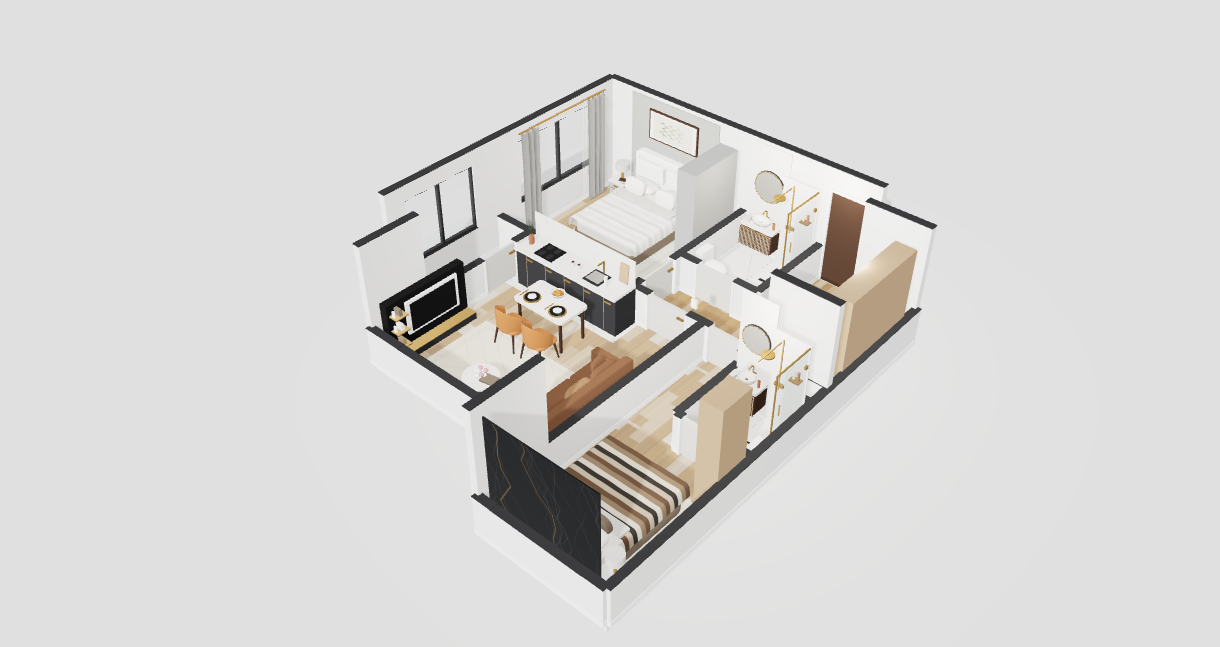
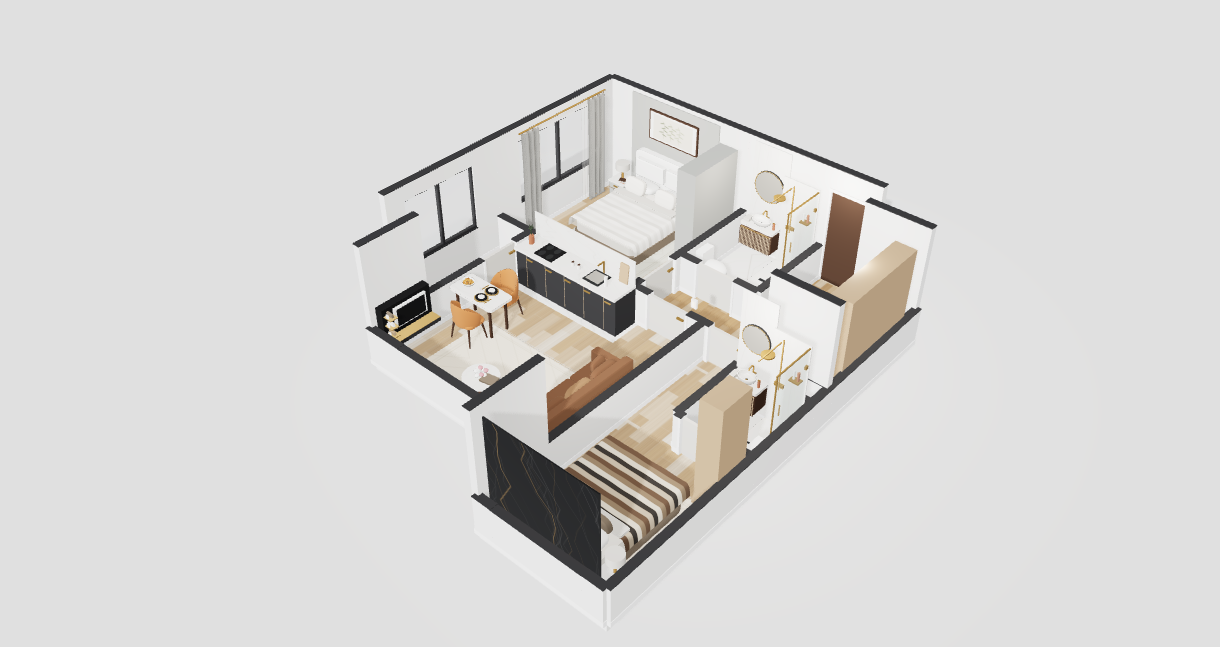
Place kitchen tables against walls with opposing chairs

Changed region(s): [[0.3115, 0.4019, 0.4984, 0.5564]]

diff --git a/src/layouts/tokyoLayouts.js b/src/layouts/tokyoLayouts.js
@@ -4,7 +4,7 @@ const kitchen=(r,x,z,w,rotation=0)=>f('kitchen-cabinets','kitchen',r,[x,z],[w,.9
 const sofa=(x,z,w,rotation=0,color='brown')=>f('sofa','sofa','living',[x,z],[w,.9,.95],rotation,{color});
 const tv=(x,z,w,rotation=0)=>f('tv-console','tv','living',[x,z],[w,2.1*w/3.1,.38],rotation);
 const coffee=(x,z)=>f('coffee-table','coffee','living',[x,z],[.85,.45,1.2]);
-const table=(r,x,z,rotation=0)=>f('dining-compact','diningCompact',r,[x,z],[1.55,.9,1.6],rotation);
+const table=(r,x,z,rotation=0)=>f('dining-compact','diningCompact',r,[x,z],[1.78,.98,1.2],rotation);
 const wardrobe=(id,r,x,z,w,rotation=0,color='light')=>f(id,'wardrobe',r,[x,z],[w,2.4,.5],rotation,{color});
 const vanity=(id,r,x,z,w=.8,rotation=0)=>f(id,'vanity',r,[x,z],[w,.88,.4],rotation);
 const shower=(r,x,z,w=.9,d=.9,rotation=0)=>f('shower-'+r,'shower',r,[x,z],[w,2.1,d],rotation);
@@ -22,8 +22,8 @@ export const euro52=finishLayout({
   room('storage','Storage','3.61',rect(5.65,4.5,2.75,2),[6.7,5.3],P),
   room('loggia1','Loggia','3.18',rect(0,0,1.25,3.15),[.6,1.8],P/2),
  ],
- openings:[['entrance',8.4,3.65,1.05,['hall']],['door',5.04,3.15,.9,['hall','primary'],'Bedroom door',-1,true],['door',4.5,3.82,.9,['hall','living'],'Living room door',-1],['door',6.95,2.05,.9,['hall','bath1'],'Bathroom door',1],['door',6.95,4.5,.9,['hall','storage'],'Storage door',1,true],['door',1.25,2.5,.85,['primary','loggia1'],'Loggia door',1],['window',0,1.3,1.7,['loggia1']],['window',0,4.8,1.95,['living']]],
- furniture:[...bed('primary',3.45,1.3,0,'taupe',1.7,2.15,'walnut'),wardrobe('bed-wardrobe','primary',5.3,.7,1.1,-P/2,'dark'),sofa(1.25,3.75,2.1,0,'gray'),f('coffee-table','coffeeOval','living',[1.3,5.12],[1.7,.45,.68]),tv(1.3,6.24,1.8,P),kitchen('living',3.65,6.1,2.6,P),{...table('living',3.1,4.22),size:[1.35,.9,1.6]},wardrobe('hall-wardrobe','hall',8.03,2.8,1.2,-P/2,'dark'),wardrobe('store-shelves','storage',8.02,5.6,1.4,-P/2,'oak'),vanity('vanity1','bath1',6.25,.31,.85),shower('bath1',7.75,.6,1.05,1.0),wc('bath1',7.98,1.55,-P/2),plant('loggia1',.6,.4)],
+ openings:[['entrance',8.4,3.65,1.05,['hall']],['door',5.04,3.15,.9,['hall','primary'],'Bedroom door',-1,true],['door',4.5,3.82,.9,['hall','living'],'Living room door',-1,true],['door',6.95,2.05,.9,['hall','bath1'],'Bathroom door',1],['door',6.95,4.5,.9,['hall','storage'],'Storage door',1,true],['door',1.25,2.5,.85,['primary','loggia1'],'Loggia door',1],['window',0,1.3,1.7,['loggia1']],['window',0,4.8,1.95,['living']]],
+ furniture:[...bed('primary',3.45,1.3,0,'taupe',1.7,2.15,'walnut'),wardrobe('bed-wardrobe','primary',5.3,.7,1.1,-P/2,'dark'),sofa(1.14,3.75,2.1,0,'gray'),f('coffee-table','coffeeOval','living',[1.19,5.12],[1.7,.45,.68]),tv(1.19,6.24,1.8,P),kitchen('living',3.65,6.1,2.6,P),{...table('living',3,3.865),size:[1.55,.98,1.2]},wardrobe('hall-wardrobe','hall',8.03,2.8,1.2,-P/2,'dark'),wardrobe('store-shelves','storage',8.02,5.6,1.4,-P/2,'oak'),vanity('vanity1','bath1',6.25,.31,.85),shower('bath1',7.75,.6,1.05,1.0),wc('bath1',7.98,1.55,-P/2),plant('loggia1',.6,.4)],
  zones:[{polygon:[[0,3.15],[4.5,3.15],[4.5,4.5],[5.65,4.5],[5.65,6.5],[0,6.5]],material:'kitchenMarble'}],
  decor:[{kind:'art',position:[1.3,1.86,3.26],width:1.4,height:.75,index:0},{kind:'rug',position:[1.3,.025,4.86],width:2.35,depth:2.45,index:0}],
 });
@@ -32,7 +32,7 @@ export const classic78=finishLayout({
  id:'two-room-78',area:78.83,entrance:{position:[8.15,.82,5.62],yaw:0},
  rooms:[room('living','Living room','19.87',rect(9.6,0,5.1,3.35),[10.5,2.1],-P/2),room('kitchen','Kitchen & dining','16.31',rect(9.6,3.35,5.1,3.05),[10.6,5.2],-P/2),room('primary','Bedroom','20.56',rect(0,0,5.2,3.35),[3.5,2.65],P/2),room('hall','Entrance hall','11.63',[[5.2,1.95],[9.6,1.95],[9.6,6.4],[7.1,6.4],[7.1,3.35],[5.2,3.35]],[8.15,5.62],0),room('bath1','Bathroom','3.07',rect(5.2,0,1.9,1.95),[6.45,1.55],0),room('bath2','Guest bathroom','3.91',rect(7.1,0,2.5,1.95),[8.1,1.3],0),room('loggia1','Kitchen loggia','3.48',rect(14.7,3.35,1.15,3.05),[15.25,5.5],0)],
  openings:[['entrance',8.15,6.4,1.05,['hall']],['door',5.2,2.65,.95,['hall','primary'],'Bedroom door',-1],['door',6.4,1.95,.9,['hall','bath1'],'Bathroom door',1],['door',8.15,1.95,.9,['hall','bath2'],'Guest bathroom door',-1],['door',9.6,2.65,.95,['hall','living'],'Living room door',1],['door',9.6,4.3,1.0,['hall','kitchen'],'Kitchen door',-1],['door',14.7,4.25,.95,['kitchen','loggia1'],'Loggia door',1],['window',0,1.7,2.25,['primary']],['window',14.7,1.7,2.2,['living']],['window',15.85,5,2.4,['loggia1']]],
- furniture:[...bed('primary',1.4,1.675,P/2,'white',1.8,2.35),wardrobe('bed-wardrobe','primary',4.87,.95,1.45,-P/2),sofa(12.2,.65,2.7,0,'charcoal'),coffee(12.2,1.85),tv(12.2,3.04,2.8,P),f('accent-chair','chair','living',[10.3,.85],[.65,.95,.65],.65),plant('living',14.25,2.8),kitchen('kitchen',12.2,3.75,3.7),table('kitchen',12.45,5.45),tub('bath1',6.15,.45),vanity('vanity1','bath1',5.53,1.3,.7,P/2),wc('bath1',6.7,1.1,-P/2),vanity('vanity2','bath2',8,.3,.9),shower('bath2',9,.56,.95,.9),wc('bath2',9.18,1.47,-P/2),wardrobe('hall-storage','hall',7.42,4.55,1.2,P/2),plant('loggia1',15.3,6.0)],
+ furniture:[...bed('primary',1.4,1.675,P/2,'white',1.8,2.35),wardrobe('bed-wardrobe','primary',4.87,.95,1.45,-P/2),sofa(12.2,.65,2.7,0,'charcoal'),coffee(12.2,1.85),tv(12.2,3.04,2.8,P),f('accent-chair','chair','living',[10.3,.85],[.65,.95,.65],.65),plant('living',14.25,2.8),kitchen('kitchen',12.2,3.75,3.7),table('kitchen',12.45,5.685,P),tub('bath1',6.15,.45),vanity('vanity1','bath1',5.53,1.3,.7,P/2),wc('bath1',6.7,1.1,-P/2),vanity('vanity2','bath2',8,.3,.9),shower('bath2',9,.56,.95,.9),wc('bath2',9.18,1.47,-P/2),wardrobe('hall-storage','hall',7.42,4.55,1.2,P/2),plant('loggia1',15.3,6.0)],
  decor:[{kind:'art',position:[12.2,1.9,.11],width:1.5,height:.75,index:0},{kind:'rug',position:[12.2,.025,1.8],width:3.35,depth:2.15,index:0}],
 });
 
@@ -40,7 +40,7 @@ export const euro70=finishLayout({
  id:'three-room-euro-70',area:70.33,entrance:{position:[6.35,.82,.78],yaw:P},
  rooms:[room('living','Kitchen & living','20.13',rect(1,3.7,4.6,4.3),[4.4,4.85],P),room('primary','Bedroom 01','14.61',rect(0,0,3.85,3.7),[2.9,2.8],0),room('bedroom2','Bedroom 02','14.26',[[5.6,3.7],[8.4,3.7],[8.4,4.25],[6.8,4.25],[6.8,6],[8.4,6],[8.4,9.6],[5.6,9.6]],[6.2,6.5],P),room('hall','Entrance hall','7.81',[[5.8,0],[7,0],[7,3.7],[3.85,3.7],[3.85,2.25],[5.8,2.25]],[6.35,.78],P),room('bath1','Bathroom','4.25',rect(3.85,0,1.95,2.25),[4.9,1.6],0),room('bath2','En suite','2.81',rect(6.8,4.25,1.6,1.75),[7.22,5.55],0),room('storage','Storage','3.75',rect(7,.65,1.4,3.05),[7.45,1.7],P),room('loggia1','Loggia','2.71',rect(0,3.7,1,2.9),[.5,4.65],0)],
  openings:[['entrance',6.4,0,1.0,['hall']],['door',3.85,2.98,.95,['hall','primary'],'Bedroom 01 door',1,true],['door',4.8,2.25,.9,['hall','bath1'],'Bathroom door',-1,true],['door',4.75,3.7,.95,['hall','living'],'Living room door',-1],['door',6.22,3.7,.9,['hall','bedroom2'],'Bedroom 02 door',-1],['door',7,2.6,.85,['hall','storage'],'Storage door',1,true],['door',7.35,6,.8,['bedroom2','bath2'],'En suite door',1],['door',1,4.65,.9,['living','loggia1'],'Loggia door',1,true],['window',0,1.8,2.5,['primary']],['window',0,5.25,1.8,['loggia1']],['window',3.3,8,2.8,['living']],['window',7,9.6,1.95,['bedroom2']]],
- furniture:[...bed('primary',1.92,1.35,0,'white',1.7,2.25),wardrobe('bed-wardrobe','primary',3.52,1.05,1.4,-P/2),...bed('bedroom2',7.02,8.25,P,'taupe',1.65,2.3,'darkMarble'),wardrobe('bedroom2-wardrobe','bedroom2',8.08,6.47,.75,-P/2,'oak'),sofa(4.92,6.65,2.35,-P/2),tv(1.29,6.8,1.95,P/2),{...coffee(3.35,7.25),rotation:P/2},kitchen('living',2.62,4.09,2.7),table('living',2.95,5.33),vanity('vanity1','bath1',4.48,.3,.8),shower('bath1',5.28,.72,.86,1.1),wc('bath1',4.27,1.65,P/2),vanity('vanity2','bath2',7.22,4.54,.65),shower('bath2',7.94,4.85,.75,1),wc('bath2',7.98,5.62,-P/2),wardrobe('storage-shelves','storage',8.1,2.15,2.15,-P/2,'oak')],
+ furniture:[...bed('primary',1.92,1.35,0,'white',1.7,2.25),wardrobe('bed-wardrobe','primary',3.52,1.05,1.4,-P/2),...bed('bedroom2',7.02,8.25,P,'taupe',1.65,2.3,'darkMarble'),wardrobe('bedroom2-wardrobe','bedroom2',8.08,6.47,.75,-P/2,'oak'),sofa(4.92,6.65,2.35,-P/2),{...tv(1.29,7.3,1.16,P/2),position:[1.29,.5,7.3]},{...coffee(3.35,7.25),rotation:P/2},kitchen('living',2.62,4.09,2.7),{...table('living',1.715,5.82,P/2),size:[1.6,.98,1.2]},vanity('vanity1','bath1',4.48,.3,.8),shower('bath1',5.28,.72,.86,1.1),wc('bath1',4.27,1.65,P/2),vanity('vanity2','bath2',7.22,4.54,.65),shower('bath2',7.94,4.85,.75,1),wc('bath2',7.98,5.62,-P/2),wardrobe('storage-shelves','storage',8.1,2.15,2.15,-P/2,'oak')],
  zones:[{polygon:rect(1,3.7,3.05,.85),material:'kitchenMarble'}],decor:[{kind:'art',position:[5.49,1.9,6.6],rotation:-P/2,width:1.3,height:.75,index:2},{kind:'rug',position:[3.2,.025,6.75],width:3.0,depth:2.05,index:0}],
 });
 
@@ -48,7 +48,7 @@ export const euro82=finishLayout({
  id:'three-room-euro-82',area:82.30,entrance:{position:[1.91,.82,.8],yaw:P},
  rooms:[room('living','Kitchen & living','24.32',rect(3.1,3.35,5.05,4.05),[4,4.3],P),room('primary','Bedroom 01','17.20',rect(4.85,0,4.55,3.35),[5.65,2.55],-P/2),room('bedroom2','Bedroom 02','15.50',[[0,3.35],[3.1,3.35],[3.1,8.65],[0,8.65],[0,5.5],[1.65,5.5],[1.65,3.85],[0,3.85]],[2.35,5.9],P),room('hall','Entrance hall','10.14',[[1.25,0],[2.6,0],[2.6,1.85],[4.85,1.85],[4.85,3.35],[1.25,3.35]],[1.91,.8],P),room('bath1','Bathroom','4.80',rect(2.6,0,2.25,1.85),[3.55,1.25],0),room('bath2','En suite','2.81',rect(0,3.85,1.65,1.65),[1.12,4.42],P/2),room('storage','Storage','3.75',rect(0,.55,1.25,2.8),[.62,1.5],P),room('loggia1','Loggia','3.79',rect(8.15,3.35,1.25,2.9),[8.75,5.5],0)],
  openings:[['entrance',1.93,0,1.05,['hall']],['door',1.25,2.35,.85,['hall','storage'],'Storage door',-1,true],['door',3.5,1.85,.9,['hall','bath1'],'Bathroom door',1],['door',4.85,2.6,.95,['hall','primary'],'Bedroom 01 door',1],['door',2.25,3.35,.85,['hall','bedroom2'],'Bedroom 02 door',-1],['door',3.65,3.35,.9,['hall','living'],'Living room door',-1],['door',1.65,4.6,.7,['bedroom2','bath2'],'En suite door',-1,true],['door',8.15,4.6,.9,['living','loggia1'],'Loggia door',1],['window',7.1,0,2.8,['primary']],['window',1.55,8.65,2.1,['bedroom2']],['window',5.7,7.4,2.8,['living']],['window',8.78,6.25,.95,['loggia1']]],
- furniture:[...bed('primary',8.05,1.675,-P/2,'white',1.7,2.3),wardrobe('bed-wardrobe','primary',5.17,.87,1.3,P/2),...bed('bedroom2',1.35,7.03,P/2,'taupe',1.65,2.25,'darkMarble'),wardrobe('bedroom2-wardrobe','bedroom2',2.77,5.95,.6,-P/2,'oak'),sofa(5.3,6.85,2.7,P),tv(7.84,6.15,1.95,-P/2),{...coffee(6.85,5.85),rotation:P/2},kitchen('living',6.12,3.74,3.05),table('living',4.8,4.95),vanity('vanity1','bath1',3.25,.3,.85),shower('bath1',4.3,.55,.9,.85),wc('bath1',4.43,1.42,-P/2),vanity('vanity2','bath2',.42,4.15,.55),shower('bath2',.48,4.98,.78,.85,P/2),{...wc('bath2',1.22,5.12,P),size:[.43,.75,.6]},wardrobe('storage-shelves','storage',.3,2.1,1.6,P/2,'oak')],
+ furniture:[...bed('primary',8.05,1.675,-P/2,'white',1.7,2.3),wardrobe('bed-wardrobe','primary',5.17,.87,1.3,P/2),...bed('bedroom2',1.35,7.03,P/2,'taupe',1.65,2.25,'darkMarble'),wardrobe('bedroom2-wardrobe','bedroom2',2.77,5.95,.6,-P/2,'oak'),sofa(5.725,6.85,2.7,P),tv(7.84,6.15,1.95,-P/2),{...coffee(6.85,5.85),rotation:P/2},kitchen('living',6.12,3.74,3.05),{...table('living',3.765,5.55,P/2),size:[1.78,.98,1.1]},vanity('vanity1','bath1',3.25,.3,.85),shower('bath1',4.3,.55,.9,.85),wc('bath1',4.43,1.42,-P/2),vanity('vanity2','bath2',.42,4.15,.55),shower('bath2',.48,4.98,.78,.85,P/2),{...wc('bath2',1.22,5.12,P),size:[.43,.75,.6]},wardrobe('storage-shelves','storage',.3,2.1,1.6,P/2,'oak')],
  zones:[{polygon:rect(4.45,3.35,3.7,1.1),material:'kitchenMarble'}],decor:[{kind:'art',position:[3.21,1.86,6.1],rotation:P/2,width:.9,height:.85,index:0},{kind:'rug',position:[5.8,.025,6.2],width:3.1,depth:2.05,index:0}],
 });
 
@@ -56,7 +56,7 @@ export const classic106=finishLayout({
  id:'three-room-106',area:106.01,entrance:{position:[.85,.82,6.4],yaw:-P/2},
  rooms:[room('living','Living room','25.50',rect(3.1,7.75,3.6,6.3),[4.2,11.4],P),room('kitchen','Kitchen & dining','16.31',rect(0,0,3.1,5.55),[1.7,4.65],0),room('primary','Bedroom 01','20.16',rect(3.1,0,3.6,5.55),[4.4,4.2],0),room('bedroom2','Bedroom 02','18.31',[[0,7.75],[3.1,7.75],[3.1,14.05],[0,14.05],[0,10.2],[1.65,10.2],[1.65,8.35],[0,8.35]],[2.2,11.2],P),room('hall','Entrance hall','11.82',rect(0,5.55,4.5,2.2),[.85,6.4],-P/2),room('bath1','Bathroom','4.41',rect(4.5,5.55,2.2,2.2),[5.05,6.65],-P/2),room('bath2','En suite','3.05',rect(0,8.35,1.65,1.85),[1.14,8.98],P/2),room('loggia1','Kitchen loggia','3.48',rect(0,-1.2,3.1,1.2),[1.4,-.6],0),room('loggia2','Bedroom loggia','3.18',rect(0,14.05,3.1,1.1),[1.55,14.6],P)],
  openings:[['entrance',0,6.4,1.05,['hall']],['door',2.42,5.55,.95,['hall','kitchen'],'Kitchen door',1],['door',3.88,5.55,.95,['hall','primary'],'Bedroom 01 door',1],['door',4.5,6.7,.9,['hall','bath1'],'Bathroom door',1],['door',2.37,7.75,.95,['hall','bedroom2'],'Bedroom 02 door',-1],['door',3.89,7.75,1.0,['hall','living'],'Living room door',-1],['door',1.65,9,.85,['bedroom2','bath2'],'En suite door',-1],['door',1.55,0,1.0,['kitchen','loggia1'],'Kitchen loggia door',1],['door',1.55,14.05,1.0,['bedroom2','loggia2'],'Bedroom loggia door',-1],['window',1.55,-1.2,2.6,['loggia1']],['window',4.9,0,2.6,['primary']],['window',4.9,14.05,2.6,['living']],['window',1.55,15.15,2.6,['loggia2']]],
- furniture:[kitchen('kitchen',.42,2.6,3.7,P/2),f('breakfast','breakfast','kitchen',[2.16,2.7],[1.4,.82,2]),...bed('primary',5.35,2.2,-P/2,'white',1.8,2.3),wardrobe('bed-wardrobe','primary',3.43,1.15,1.5,P/2),...bed('bedroom2',1.25,12.5,P/2,'taupe',1.75,2.15,'padded'),wardrobe('bedroom2-wardrobe','bedroom2',2.77,10.2,1.0,-P/2,'dark'),f('dining','dining','living',[5.15,9.5],[2,.85,2.7]),sofa(6.05,12.5,2.55,-P/2,'light'),tv(3.41,12.5,2.5,P/2),coffee(4.75,12.5),f('hall-console','hallStorage','hall',[.33,7.05],[.85,2.15,.42],P/2),vanity('vanity1','bath1',5.1,5.86,.85),shower('bath1',6.1,6.13,1,1),wc('bath1',6.28,7.24,-P/2),vanity('vanity2','bath2',.42,8.64,.55),shower('bath2',1.2,9.74,.74,.78),wc('bath2',.42,9.78,P),plant('loggia1',2.67,-.6),plant('loggia2',.45,14.62)],
+ furniture:[kitchen('kitchen',.42,2.6,3.7,P/2),f('breakfast','breakfast','kitchen',[2.385,2.7],[1.78,.98,1.2],-P/2),...bed('primary',5.35,2.2,-P/2,'white',1.8,2.3),wardrobe('bed-wardrobe','primary',3.43,1.15,1.5,P/2),...bed('bedroom2',1.25,12.5,P/2,'taupe',1.75,2.15,'padded'),wardrobe('bedroom2-wardrobe','bedroom2',2.77,10.2,1.0,-P/2,'dark'),f('dining','dining','living',[5.15,9.5],[2,.85,2.7]),sofa(6.05,12.5,2.55,-P/2,'light'),tv(3.41,12.5,2.5,P/2),coffee(4.75,12.5),f('hall-console','hallStorage','hall',[.33,7.05],[.85,2.15,.42],P/2),vanity('vanity1','bath1',5.1,5.86,.85),shower('bath1',6.1,6.13,1,1),wc('bath1',6.28,7.24,-P/2),vanity('vanity2','bath2',.42,8.64,.55),shower('bath2',1.2,9.74,.74,.78),wc('bath2',.42,9.78,P),plant('loggia1',2.67,-.6),plant('loggia2',.45,14.62)],
  decor:[{kind:'art',position:[6.59,1.9,12.5],rotation:-P/2,width:1.4,height:.75,index:0},{kind:'rug',position:[4.8,.025,12.4],width:2.55,depth:2.9,index:0}],
 });
 export const additionalLayouts=[euro52,euro70,classic78,euro82,classic106];

diff --git a/scripts/browser-dining.js b/scripts/browser-dining.js
@@ -24,7 +24,7 @@ async(page)=>{
   await page.goto('about:blank');await page.setViewportSize({width:1440,height:1000});
   await page.goto('http://127.0.0.1:4173/Artwin/#/projects/tokyo-city');
   await page.locator('.welcome-dialog .language-picker select').selectOption('en-US');await page.locator('.welcome-dialog .dialog-close').click();
-  const plans=[['two-room-euro-52',[['living',3.1,4.02]]],['three-room-euro-70',[['living',2.95,5.13]]],['two-room-78',[['kitchen',12.45,5.25]]],['three-room-euro-82',[['living',4.8,4.75]]],['three-room-106',[['kitchen',1.91,2.7],['living',5.15,9.5]]],['four-room-134',[['kitchen',5.275,2.6],['living',8.1,14.4]]]];
+  const plans=[['two-room-euro-52',[['living',3,3.865]]],['three-room-euro-70',[['living',1.715,5.82]]],['two-room-78',[['kitchen',12.45,5.685]]],['three-room-euro-82',[['living',3.765,5.55]]],['three-room-106',[['kitchen',2.385,2.7],['living',5.15,9.5]]],['four-room-134',[['kitchen',5.685,2.2],['living',8.1,14.4]]]];
   for(const [id,views] of plans){
    await page.goto('http://127.0.0.1:4173/Artwin/#/projects/tokyo-city/apartments/'+id);
    await page.waitForFunction(()=>document.querySelector('.enter-button')?.disabled===false,null,{timeout:90000});
@@ -32,7 +32,9 @@ async(page)=>{
    await page.getByRole('button',{name:'Step inside',exact:true}).click({noWaitAfter:true});
    await page.locator('.plan-player').waitFor();
    for(const [room,x,z] of views){
-    await select(room);await aim(x,1.5,z);
+    await select(room);await aim(x,.9,z);
+    await page.screenshot({path:`output/playwright/kitchen-table-${id}-${room}.png`});
+    await aim(x,1.5,z);
     await page.screenshot({path:`output/playwright/chandelier-${id}-${room}.png`});
     results.push(`${id}/${room}`);
    }
@@ -44,13 +46,22 @@ async(page)=>{
     await page.getByRole('button',{name:'E Turn television on',exact:true}).waitFor();await page.keyboard.press('e');
     await page.getByRole('button',{name:'E Turn television off',exact:true}).waitFor();await page.waitForTimeout(500);
     await page.screenshot({path:'output/playwright/relocated-tv-52.png'});
+    await select('living');
+    for(const [x,z] of [[4.1,4.62],[4.1,3.83]]){
+     await aim(x,1.645,z);await page.keyboard.down('w');
+     try{await page.waitForFunction(([x,z])=>{const p=document.querySelector('.plan-player').getAttribute('transform').match(/-?\d+(?:\.\d+)?/g).map(Number);return Math.hypot(p[0]-x,p[1]-z)<.09;},[x,z],{timeout:5000});}finally{await page.keyboard.up('w');}
+    }
+    await aim(4.5,1.05,3.82);await page.getByRole('button',{name:'E Open Living room door',exact:true}).waitFor();await page.keyboard.press('e');await page.waitForTimeout(800);
+    await aim(5.65,1.645,3.83);await page.keyboard.down('w');
+    try{await page.waitForFunction(()=>Number(document.querySelector('.plan-player').getAttribute('transform').match(/-?\d+(?:\.\d+)?/g)[0])>5.5,null,{timeout:5000});}finally{await page.keyboard.up('w');}
+    await page.screenshot({path:'output/playwright/kitchen-table-52-door-exit.png'});
     await select('primary');await aim(5.3,1.35,.7);await page.screenshot({path:'output/playwright/black-cabinet-52.png'});
    }
    if(id==='four-room-134'){
     await select('kitchen');await aim(5.52,1.25,5.37);
     await page.getByRole('button',{name:'E Turn Kitchen & dining light off',exact:true}).waitFor();await page.keyboard.press('e');
     await page.getByRole('button',{name:'E Turn Kitchen & dining light on',exact:true}).waitFor();
-    await aim(5.275,1.5,2.6);await page.screenshot({path:'output/playwright/chandelier-light-off.png'});
+    await aim(5.685,1.5,2.2);await page.screenshot({path:'output/playwright/chandelier-light-off.png'});
     await aim(5.52,1.25,5.37);await page.keyboard.press('e');
     await page.getByRole('button',{name:'E Turn Kitchen & dining light off',exact:true}).waitFor();
    }

diff --git a/tests/dining-fixtures.test.js b/tests/dining-fixtures.test.js
@@ -2,7 +2,29 @@ import test from 'node:test';
 import assert from 'node:assert/strict';
 import {layouts,getLayout} from '../src/layouts/index.js';
 import {diningFixtures} from '../src/diningFixtures.js';
-import {pointInPolygon,circleIntersectsBox} from '../src/geometry.js';
+import {pointInPolygon,circleIntersectsBox,wallSegments} from '../src/geometry.js';
+
+test('all six kitchen tables meet a wall at their short end and their seating clears other furniture',()=>{
+  let count=0;
+  const bounds=f=>{const c=Math.abs(Math.cos(f.rotation||0)),s=Math.abs(Math.sin(f.rotation||0));return {x:f.position[0],z:f.position[2],w:f.size[0]*c+f.size[2]*s,d:f.size[0]*s+f.size[2]*c};};
+  for(const layout of layouts)for(const table of layout.furniture.filter(f=>['breakfast','diningCompact'].includes(f.kind))){
+    count++;
+    const yaw=table.rotation||0,[x,,z]=table.position,context=`${layout.id}/${table.id}`;
+    const walls=layout.walls.flatMap(w=>wallSegments(w)).filter(s=>s.position[1]-s.size[1]/2<.78).map(s=>({x:s.position[0],z:s.position[2],width:s.size[0],depth:s.size[2]}));
+    // Sample across the short tabletop edge, including under kitchen windows.
+    for(const side of [-.25,0,.25]){
+      const edge=[x+side*Math.cos(yaw)-table.size[2]/2*Math.sin(yaw),z-side*Math.sin(yaw)-table.size[2]/2*Math.cos(yaw)];
+      assert(!walls.some(w=>circleIntersectsBox(...edge,.005,w)),`${context}: tabletop penetrates wall`);
+      assert([.02,.04,.06,.08].some(gap=>walls.some(w=>circleIntersectsBox(edge[0]-gap*Math.sin(yaw),edge[1]-gap*Math.cos(yaw),.005,w))),`${context}: short end is not against wall`);
+    }
+    const a=bounds(table);
+    for(const item of layout.furniture.filter(f=>f!==table)){
+      const b=bounds(item);
+      assert(Math.abs(a.x-b.x)>=(a.w+b.w)/2-.001||Math.abs(a.z-b.z)>=(a.d+b.d)/2-.001,`${context}: seating overlaps ${item.id}`);
+    }
+  }
+  assert.equal(count,6);
+});
 
 test('every dining table has a chandelier centered inside its room and table surface',()=>{
   let count=0;
@@ -16,7 +38,7 @@ test('every dining table has a chandelier centered inside its room and table sur
       const dx=fixture.position[0]-table.position[0],dz=fixture.position[2]-table.position[2],yaw=table.rotation||0;
       const local=[dx*Math.cos(yaw)-dz*Math.sin(yaw),dx*Math.sin(yaw)+dz*Math.cos(yaw)];
       // Measured tabletop centers/extents exclude the seating footprint.
-      const surface=table.kind==='breakfast'?[-.25,0,.85/2,1.6/2]:table.kind==='diningCompact'?[0,-.2*table.size[2]/1.6,.65*table.size[0]/1.55,.4*table.size[2]/1.6]:[0,0,.57*table.size[0]/2.2,1.15*table.size[2]/3];
+      const surface=['breakfast','diningCompact'].includes(table.kind)?[0,0,.35*table.size[0]/1.78,.6*table.size[2]/1.2]:[0,0,.57*table.size[0]/2.2,1.15*table.size[2]/3];
       assert(Math.abs(local[0]-surface[0])<1e-8&&Math.abs(local[1]-surface[1])<1e-8,`${layout.id}/${table.id} is off center`);
       assert(fixture.radii[0]<surface[2]&&fixture.radii[1]<surface[3],'Chandelier extends past tabletop');
       for(let a=0;a<Math.PI*2;a+=Math.PI/8){

diff --git a/src/scene/Furniture.jsx b/src/scene/Furniture.jsx
@@ -140,20 +140,16 @@ function Dining({m}) {
     {[-.3,.3].map(z=><group key={z} position={[0,.816,z]}><BorsokBowl m={m}/></group>)}
   </>;
 }
-function Breakfast({m}) {return <>
-  <group position={[-.25,0,0]}><Legs width={.8} depth={1.5} height={.75} mat={m.brass}/><Box position={[0,.79,0]} size={[.85,.07,1.6]} material={m.stone}/></group>
-  {[-.46,.46].map(z=><group key={z} position={[.3,0,z]} rotation={[0,-Math.PI/2,0]}><Chair m={m}/></group>)}
-</>;}
-
-function DiningCompact({m}) {return <>
-  <group position={[0,0,-.2]}><Legs width={1.28} depth={.8} height={.77} mat={m.walnut}/></group>
-  <Soft position={[0,.78,-.2]} size={[1.3,.07,.8]} material={m.stone}/>
+// The short -Z end meets the wall; both diners face across the long sides.
+function KitchenTable({item,m}) {return <group scale={[item.size[0]/1.78,1,item.size[2]/1.2]} name="kitchen-table-two-seats">
+  <Legs width={.65} depth={1.1} height={.77} mat={item.kind==='breakfast'?m.brass:m.walnut}/>
+  <Soft position={[0,.78,0]} size={[.7,.07,1.2]} material={m.stone}/>
   {[-1,1].map(s=><group key={s}>
-    <group position={[s*.36,0,.51]} rotation={[0,Math.PI,0]}><DiningChair m={m}/></group>
-    <Place position={[s*.34,.825,-.04]} rotation={Math.PI} m={m}/>
+    <group position={[s*.55,0,.12]} rotation={[0,-s*Math.PI/2,0]}><DiningChair m={m}/></group>
+    <group position={[s*.155,.825,.17]} scale={[.82,1,.82]}><Place rotation={s*Math.PI/2} m={m}/></group>
   </group>)}
-  <group position={[0,.818,-.42]}><BorsokBowl m={m}/></group>
-</>;}
+  <group position={[0,.818,-.35]}><BorsokBowl m={m}/></group>
+</group>;}
 
 function Kitchen({item,m,mode}) {
   const w=item.size[0];
@@ -239,7 +235,7 @@ export default function Furniture({item,m,state,player,mode,activeRoom,quality,r
   const [w,h,d]=item.size;
   const content = {
     bed:()=> <Bed item={item} m={m}/>, sofa:()=> <Sofa item={item} m={m}/>, hallStorage:()=> <HallStorage item={item} m={m}/>,
-    dining:()=> <group scale={[w/2.2,1,d/3]}><Dining m={m}/></group>, diningCompact:()=> <group scale={[w/1.55,1,d/1.6]}><DiningCompact m={m}/></group>, breakfast:()=> <Breakfast m={m}/>, kitchen:()=> <group scale={[w/3.7,1,1]}><Kitchen item={{...item,size:[3.7,h,d]}} m={m} mode={mode}/></group>,
+    dining:()=> <group scale={[w/2.2,1,d/3]}><Dining m={m}/></group>, diningCompact:()=> <KitchenTable item={item} m={m}/>, breakfast:()=> <KitchenTable item={item} m={m}/>, kitchen:()=> <group scale={[w/3.7,1,1]}><Kitchen item={{...item,size:[3.7,h,d]}} m={m} mode={mode}/></group>,
     chair:()=> <Chair m={m}/>, plant:()=> <Plant item={item} m={m}/>,
     cabinet:()=> <Cabinet item={item} m={m} state={state} player={player} mode={mode}/>,
     tv:()=> <group scale={[w/3.1,w/3.1,1]}><TV m={m} state={state} reducedMotion={reducedMotion}/></group>,

diff --git a/src/scene/Decor.jsx b/src/scene/Decor.jsx
@@ -84,7 +84,6 @@ export function SmallDetails({item,m}){
       <group position={[-1.6,.97,.03]}><Vase m={m}/></group>
       <Cylinder position={[1.3,1.08,.12]} size={[.045,.22,.045]} material={m.ceramic}/>
     </>}
-    {item.kind==='breakfast'&&<group position={[-.3,.835,.45]}><Cylinder position={[0,.02,0]} size={[.15,.035,.15]} material={m.oak}/>{[-.06,.02,.08].map((x,i)=><mesh key={x} geometry={sphereGeometry} position={[x,.075,i*.03-.035]} scale={[.055,.055,.055]} material={i%2?m.terracotta:m.sage}/>)}</group>}
     {item.kind==='vanity'&&<>
       <Soft position={[-w*.39,.91,.04]} size={[w*.18,.07,.19]} material={m.linen}/>
       <Cylinder position={[w*.4,.955,.02]} size={[.025,.15,.025]} material={m.terracotta}/><Box position={[w*.4,1.035,.025]} size={[.045,.012,.016]} material={m.brass}/>
@@ -119,7 +118,7 @@ export default function Decor({m,mode}) {
     {mode==='walkthrough'&&<Art position={[5.8,1.8,.11]} width={.65} height={.85} index={2} m={m}/>}
     {mode==='walkthrough'&&<Art position={[1.2,1.85,7.39]} width={.48} height={.65} rotation={Math.PI} index={4} m={m}/>}
     {mode==='walkthrough'&&<Art position={[.5,1.85,9.29]} width={.48} height={.65} rotation={Math.PI} index={2} m={m}/>}
-    {furniture.filter(f=>['nightstand','kitchen','breakfast','vanity','cabinet'].includes(f.kind)).map(item=><SmallDetails key={item.id} item={item} m={m}/>)}
+    {furniture.filter(f=>['nightstand','kitchen','vanity','cabinet'].includes(f.kind)).map(item=><SmallDetails key={item.id} item={item} m={m}/>)}
     <group position={[.65,.64,4.75]}><Soft position={[0,0,0]} size={[.18,.08,.4]} material={m.linen}/></group>
   </>;
 }

diff --git a/src/scene/LayoutDecor.jsx b/src/scene/LayoutDecor.jsx
@@ -32,6 +32,6 @@ export default function LayoutDecor({layout,m,mode}){
     </group>)}
     {layout.decor.filter(d=>d.kind==='rug').map((d,i)=><Rug key={i} {...d} m={m}/>)}
     {mode==='walkthrough'&&layout.decor.filter(d=>d.kind==='art').map((d,i)=><Art key={i} {...d} m={m}/>)}
-    {layout.furniture.filter(f=>['nightstand','kitchen','breakfast','vanity','cabinet'].includes(f.kind)).map(f=>f.kind==='kitchen'?<group key={f.id} position={f.position} rotation={[0,f.rotation,0]} scale={[f.size[0]/3.7,1,1]}><SmallDetails item={{...f,position:[0,0,0],rotation:0}} m={m}/></group>:<SmallDetails key={f.id} item={f} m={m}/>)}
+    {layout.furniture.filter(f=>['nightstand','kitchen','vanity','cabinet'].includes(f.kind)).map(f=>f.kind==='kitchen'?<group key={f.id} position={f.position} rotation={[0,f.rotation,0]} scale={[f.size[0]/3.7,1,1]}><SmallDetails item={{...f,position:[0,0,0],rotation:0}} m={m}/></group>:<SmallDetails key={f.id} item={f} m={m}/>)}
   </>;
 }

diff --git a/src/apartmentConfig.js b/src/apartmentConfig.js
@@ -70,7 +70,7 @@ export const furniture = [
   {id:'hall-console',kind:'hallStorage',position:[3.35,0,7.35],rotation:Math.PI/2,size:[1.7,2.15,.45]},
   {id:'kitchen-cabinets',kind:'kitchen',position:[3.76,0,2.5],rotation:Math.PI/2,size:[3.7,.92,.62]},
   {id:'dining',kind:'dining',position:[8.1,0,14.4],rotation:Math.PI/2,size:[2.2,.8,3]},
-  {id:'breakfast',kind:'breakfast',position:[5.525,0,2.6],size:[1.4,.82,2]},
+  {id:'breakfast',kind:'breakfast',position:[5.685,0,2.2],rotation:-Math.PI/2,size:[1.78,.98,1.2]},
   {id:'nightstand-north-2',kind:'nightstand',position:[.4,0,2.75],rotation:Math.PI/2,size:[.45,.55,.5]},
   {id:'nightstand-primary-2',kind:'nightstand',position:[.4,0,11.45],size:[.45,.55,.5]},
   {id:'nightstand-south-2',kind:'nightstand',position:[3.8,0,11.55],size:[.45,.55,.5]},

diff --git a/src/diningFixtures.js b/src/diningFixtures.js
@@ -1,8 +1,7 @@
-// Table centers differ from furniture footprints because the latter include chairs.
+// Chandelier dimensions follow the tabletop, excluding the seating footprint.
 export function diningFixture(item){
   if(item.kind==='dining')return {offset:[0,0],radii:[.33*item.size[0]/2.2,.7*item.size[2]/3]};
-  if(item.kind==='diningCompact')return {offset:[0,-.2*item.size[2]/1.6],radii:[.43*item.size[0]/1.55,.24*item.size[2]/1.6]};
-  if(item.kind==='breakfast')return {offset:[-.25,0],radii:[.25,.52]};
+  if(item.kind==='diningCompact'||item.kind==='breakfast')return {offset:[0,0],radii:[.23*item.size[0]/1.78,.4*item.size[2]/1.2]};
   return null;
 }
 

diff --git a/README.md b/README.md
@@ -254,10 +254,17 @@ The 52.10 m² apartment places a gray sofa beside the dining table, an oval coff
 
 Freestanding wardrobes share two inset doors, long silver handles, a plinth and short feet. Dark wardrobes use a matte black finish; other wardrobes keep their original finish. Fitted hall joinery remains a separate model.
 
-All eight dining and breakfast tables across the six apartments have a chandelier in walkthrough and guided-tour modes. Fixture placement follows the actual tabletop center, rotation and dimensions, including off-center breakfast tables. Warm lights follow the room's existing light state. Chandelier light nodes remain mounted with zero intensity in dollhouse mode to avoid changing shader light counts, and they do not add shadow-map passes. Run `scripts/browser-dining.js` with Playwright CLI against `npm run serve:pages` to capture every fixture, the 52.10 seating and wardrobe, the room-light toggle, and the mobile tour.
+All eight dining and breakfast tables across the six apartments have a chandelier in walkthrough and guided-tour modes. Fixture placement follows the actual tabletop center, rotation and dimensions. Warm lights follow the room's existing light state. Chandelier light nodes remain mounted with zero intensity in dollhouse mode to avoid changing shader light counts, and they do not add shadow-map passes. Run `scripts/browser-dining.js` with Playwright CLI against `npm run serve:pages` to capture every fixture, the 52.10 seating and wardrobe, the room-light toggle, and the mobile tour.
 
 ## Mobile return navigation and bathrooms
 
 At phone widths, the arrow beside the Artwin logo returns directly to the current project’s floor plans in every viewing mode, including direct apartment links. The combined logo/back link has a 44 px touch height and translated accessible label.
 
 Toilet cisterns face the wall and bowls face usable bathroom space in all six layouts. The toilet geometry now follows each fixture’s declared dimensions. The 82.30 m² en suite uses a compact toilet and an outward-opening door; nearby storage is narrower and shifted to keep the path clear. `tests/toilet-clearance.test.js` checks all ten toilets for rear-wall alignment, intersections and a clear approach zone; this is a visualization check rather than a building-code certification. `scripts/browser-navigation-bathrooms.js` checks bathroom views, the en-suite exit, mobile back controls and official booking destinations.
+
+
+## Kitchen table seating
+
+All six kitchen and combined kitchen/living table sets have one short end against a wall, with two upholstered chairs facing each other across the long sides. Breakfast and compact dining tables share the same model, including inset place settings and a bowl of borsok. The chandelier follows the table rotation and dimensions.
+
+The compact layouts use small furniture adjustments to preserve circulation: the 52.10 m² seating group shifts slightly and its living-room door opens toward the hall; the 70.33 m² media unit is smaller and wall mounted beside the table; the 82.30 m² sofa shifts to clear the dining chairs. Room boundaries and doorway locations are unchanged. The kitchen-table checks in `tests/dining-fixtures.test.js` cover wall alignment, furniture separation and chandelier placement, alongside the existing navigation/physics tests.

diff --git a/TESTING.md b/TESTING.md
@@ -147,3 +147,11 @@ All twelve bathroom destinations were opened in the production viewer and screen
 Consultation buttons now link directly to `https://artwin.kg/schedule-call`. The welcome CTA and legacy consultation hash redirects were checked by intercepting the official destination with a minimal test response: this verifies navigation without submitting a booking or loading external trackers. The collection browser suite passed language switching, slideshow, all six previews, filtering, sorting, favorites, comparison, social links and responsive layouts. Completed checks reported no runtime/console errors or missing requests/assets. Existing upstream deprecation warnings remain. These checks use desktop Chrome with resized viewports, not physical phones.
 
 All six 3D preview assets were refreshed. The final production build and strict `/Artwin/` asset check passed; unknown paths still return 404 and no server-side rewrites are used.
+
+## Kitchen tables against the wall — 14 September 2026
+
+All six kitchen table sets now put a short tabletop end against a wall, with two chairs facing each other across the long sides. Shared place settings and borsok bowls remain on the tabletop, and chandeliers follow the new positions. The compact apartments include small furniture and door-swing adjustments to preserve access; room outlines and doorway locations remain unchanged.
+
+All **38 Node tests passed**, including the new six-table wall-alignment and furniture-separation check, chandelier alignment, every room's open-door walking path and actual Rapier destination queries. The production dining browser suite reviewed all six kitchen arrangements, all eight table chandeliers, the relocated 52.10 TV interaction, the kitchen light switch and the mobile guided tour at 390 × 844. It also physically walked around the 52.10 table, opened the living-room door and exited into the hall. The final run reported no runtime/console errors, failed requests or HTTP errors. Chair/drape clearance and the centered tabletop decorations were visually reviewed. Checks use desktop Chrome and resized viewports, not physical phones; existing upstream deprecation warnings remain.
+
+The six gallery previews were recaptured from these production models. The final build and strict `/Artwin/` asset check passed with those refreshed assets.
